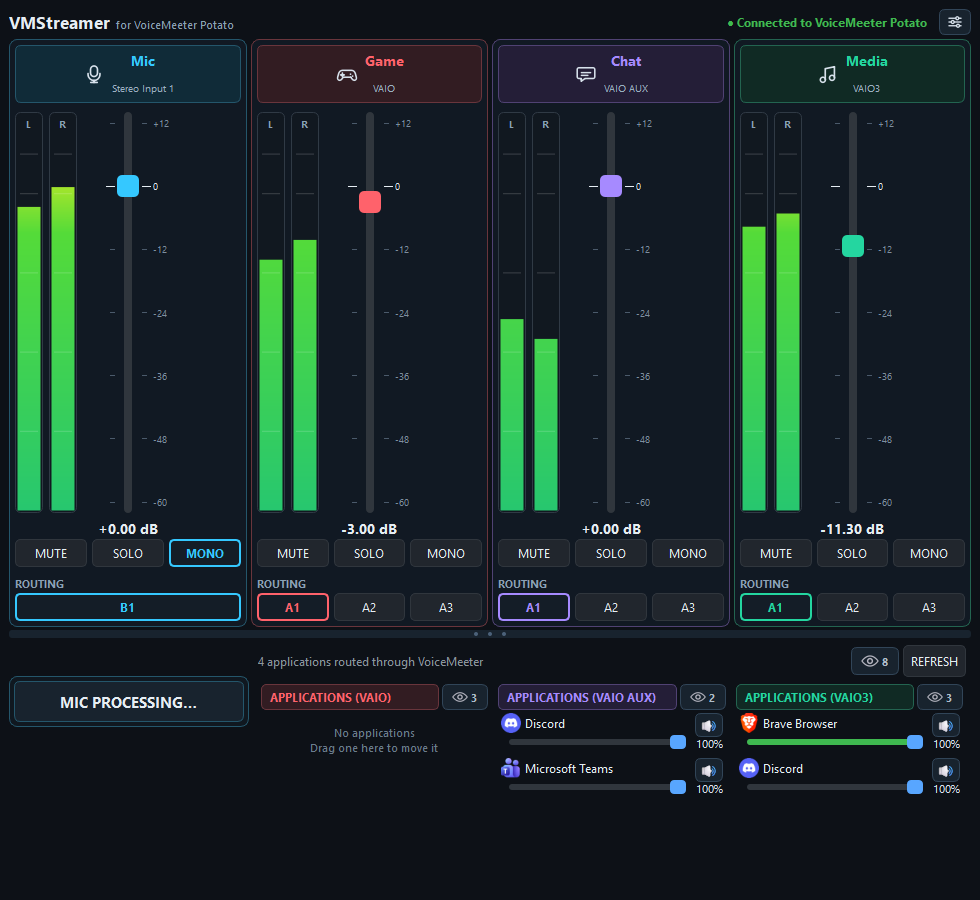
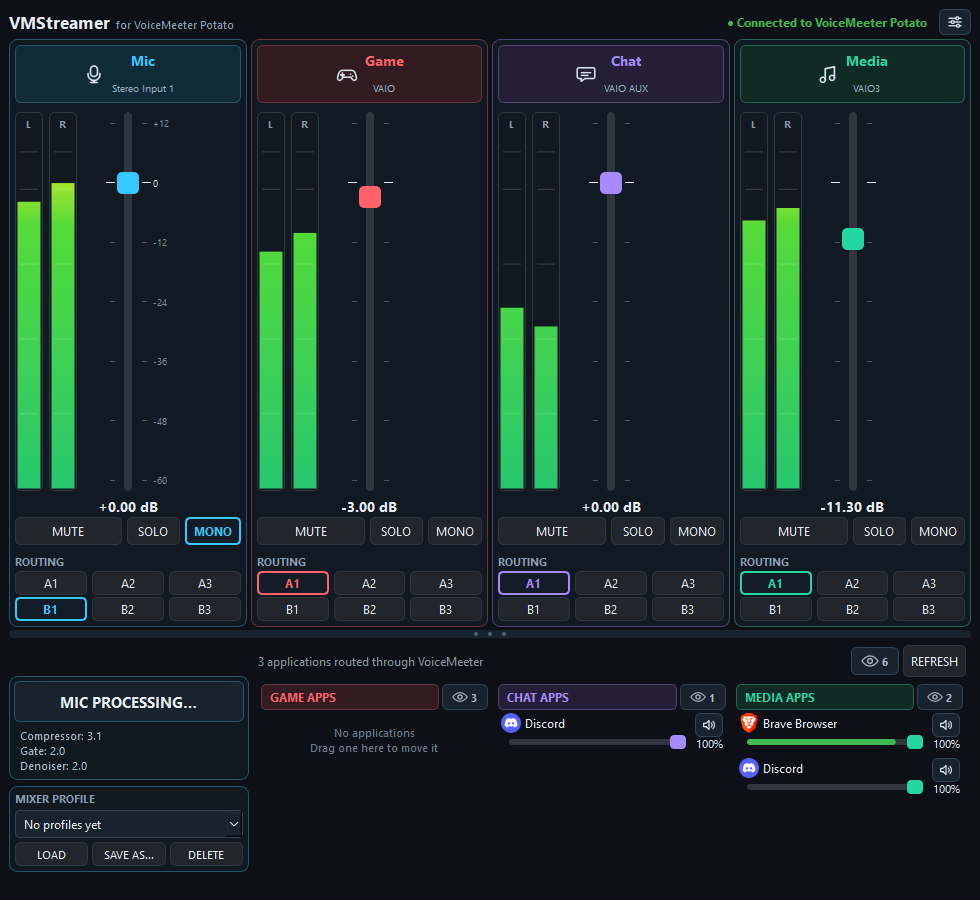
docs: cover profiles, routing and hotkeys; shorten the roadmap
Describe the new features in README and HANDOVER, replace the README's
long checklist with a short ordered roadmap, and refresh the screenshot.
The build notes now say to quit VMStreamer with --quit or its tray icon,
never by force, and why.

diff --git a/README.md b/README.md
@@ -22,13 +22,15 @@ Control your main VoiceMeeter channels directly from VMStreamer:
 - Mute
 - Solo
 - Mono
-- Output routing buttons (B1 for the microphone, A1–A3 for Game, Chat and Media)
+- Output routing buttons A1–A3 and B1–B3 on every channel, shown with the bus names you gave them in VoiceMeeter
+- Mixer profiles: save gain, mute, solo, mono and routing of all channels under a name, and load them again
 - Live level meters on every channel, with a dB scale on the faders
 - Reconnects by itself when VoiceMeeter is closed and started again
-- Global hotkey to mute the microphone (Ctrl+Shift+M by default)
+- Global hotkeys to mute the microphone (Ctrl+Shift+M by default) and each of Game, Chat and Media
 - System tray icon: keeps running when the window is closed, with mute and quit in its menu
 - Settings window for the microphone input, the hotkey and the tray behaviour
 - Starting VMStreamer a second time shows the running one instead of opening another
+- `VMStreamer.exe --quit` asks the running VMStreamer to quit, for use in scripts
 - Draggable divider between the mixer and the lower panels
 
 ### Application Audio
@@ -241,77 +243,19 @@ VMStreamer is currently under active development.
 
 The core mixer, microphone processing, application routing, live audio meters, and Windows application volume controls are functional.
 
-## Future Features
+## Roadmap
 
-VMStreamer is actively developed. The following features are planned or being considered for future releases:
+Done so far: reconnect, meters on every channel, global mute hotkeys, system tray, settings window, mic processing presets, mixer profiles, single running instance.
 
-### Configuration & Presets
+Next, roughly in this order:
 
-- [ ] Persistent application routing
-- [ ] Save and load mixer presets
-- [x] Save microphone processing presets
-- [ ] Save application volume and mute states
-- [ ] Multiple named profiles such as Gaming, Streaming, Recording, and Away
-- [ ] User-configurable application sorting and layout
-- [x] Dedicated settings window
+1. Hotkeys for volume and for switching profiles
+2. A compact window mode
+3. Configurable Game, Chat and Media mapping, and other VoiceMeeter editions
+4. A local API, so Stream Deck, OBS and scripts can control VMStreamer
+5. A Windows installer and a signed EXE
 
-### Application Management
-
-- [x] Display application icons
-- [ ] Remember application volume levels
-- [ ] Automatically route applications based on executable
-- [x] Move applications between Game, Chat, and Media
-- [ ] Improved application session detection
-- [ ] Application routing rules
-
-### VoiceMeeter Controls
-
-- [ ] Pan / balance controls
-- [ ] Additional strip controls
-- [ ] A/B bus controls
-- [ ] Bus volume and mute controls
-- [ ] Hardware input controls
-- [ ] Additional VoiceMeeter routing options
-
-### Streamer Features
-
-- [ ] Global hotkeys
-- [x] Global microphone mute
-- [ ] Game / Chat / Media volume hotkeys
-- [ ] Preset switching through hotkeys
-- [ ] Push-to-talk integration
-- [x] System tray support
-- [ ] Start with Windows
-- [x] Start minimized
-
-### Integrations
-
-- [ ] OBS Studio integration
-- [ ] Stream Deck integration
-- [ ] Local API for external applications and scripts
-- [ ] Home Assistant integration
-- [ ] Integration with other streaming tools
-
-### User Interface
-
-- [ ] Custom themes
-- [ ] Light mode
-- [ ] Custom accent colors
-- [ ] Compact mode
-- [ ] Improved high-DPI scaling
-- [ ] Customizable mixer layout
-- [ ] Additional visualization options
-
-### Distribution
-
-- [ ] Windows installer
-- [ ] Automatic updates
-- [x] GitHub Releases
-- [ ] Versioned release builds
-- [ ] Release notes and changelogs
-
-> This roadmap is subject to change as VMStreamer evolves and new ideas are explored.
-
+Not planned for now: light mode and custom themes, automatic updates.
 
 ## Support
 

diff --git a/HANDOVER.md b/HANDOVER.md
@@ -133,6 +133,20 @@ A Mic processing preset stores the state of all three blocks together (`save_pre
 
 Only one VMStreamer runs at a time. `main()` claims a named mutex (`acquire_single_instance`); a second start broadcasts a registered window message and exits, and the running instance shows its window (handled in `HotkeyFilter`, for the main window's copy of the message only). The packaged program and a run from source use different names on purpose.
 
+## Mixer Profiles, Routing and Hotkeys
+
+A mixer profile stores gain, mute, solo, mono and the routing buttons of all four strips (`save_profile`, `apply_profile`, `delete_profile`; QSettings key `mixer_profiles`, JSON). `StripWidget.apply_profile()` sends each value through the same handler as a click, so only what differs reaches VoiceMeeter. Profiles and mic processing presets are separate on purpose.
+
+Every strip has the routing rows A1–A3 and B1–B3 (`ROUTE_ROWS`). A button shows the bus name from VoiceMeeter when the bus has one (`route_name`).
+
+Each strip has a mute hotkey (`MUTE_HOTKEYS`); only the microphone's has a default. `register_hotkeys()` returns the combinations Windows refused.
+
+The fader's unit is 0.01 dB. One wheel notch moves 0.5 dB, Shift+wheel and the arrow keys 0.1 dB, Page Up/Down 1 dB.
+
+`update_processing_summary()` shows each block's Amount under the MIC PROCESSING button and marks a bypassed or switched-off block on its tab. It reads three values per change event; the full panels are still only synchronized while their window is open.
+
+`VMStreamer.exe --quit` (and `python main.py --quit`) asks the running instance to quit through a registered window message, handled like the tray's Quit.
+
 ## Tests
 
 `tests/` holds unit tests on the standard library's `unittest`; run them with `python -m unittest discover -s tests` before committing a change to `main.py`. `tests/fakes.py` provides a fake mixer (`FakeVM`), an in-memory `QSettings` and a `Sandbox` that swaps them into `main`, so a real `MainWindow` can be built on Qt's offscreen platform without VoiceMeeter.
@@ -300,27 +314,11 @@ Output:
 
 ## Build Notes
 
-If PyInstaller reports:
+`build_vmstreamer.ps1` asks a running VMStreamer to quit before it builds (`dist\VMStreamer.exe --quit`), because a running copy locks the EXE and PyInstaller then fails with `PermissionError: [WinError 5]`. If it is still running after ten seconds, quit it from its tray icon and build again.
 
-```text
-PermissionError: [WinError 5]
-```
+Do not stop VMStreamer by force (`Stop-Process -Force`, `taskkill /F`, Task Manager). A killed process cannot log out, and VoiceMeeter keeps listing it as a client (an "R" mark at the top of its window) until VoiceMeeter is restarted. `--quit` only works for versions that have it (v1.3.0 and later); older ones must be quit from the tray.
 
-against `dist\VMStreamer.exe`, the old executable is usually still running/locked.
-
-Check:
-
-```powershell
-Get-Process VMStreamer -ErrorAction SilentlyContinue
-```
-
-If necessary:
-
-```powershell
-Stop-Process -Name VMStreamer -Force
-```
-
-Then rebuild.
+Run the build script plainly. Redirecting its output makes PowerShell 5.1 treat PyInstaller's progress messages as an error.
 
 ## GitHub Release
 

diff --git a/PROJECT_STATE.md b/PROJECT_STATE.md
@@ -43,7 +43,8 @@ Main controls:
 - Mute
 - Solo
 - Mono
-- Routing buttons (Mic: B1; Game, Chat, Media: A1–A3)
+- Routing buttons A1–A3 and B1–B3 on every strip
+- Mixer profiles (`mixer_profiles`)
 
 Mic processing:
 
@@ -177,12 +178,7 @@ Do not regress:
 
 ## Build Locking
 
-If building fails with `WinError 5` on `dist\VMStreamer.exe`, close/kill the running VMStreamer process before rebuilding:
-
-```powershell
-Get-Process VMStreamer -ErrorAction SilentlyContinue
-Stop-Process -Name VMStreamer -Force
-```
+The build script asks a running VMStreamer to quit (`VMStreamer.exe --quit`) before building. Never stop it by force: a killed process stays listed as a client in VoiceMeeter until VoiceMeeter is restarted.
 
 ## Future UI
 
@@ -194,9 +190,11 @@ Potential areas:
 
 - application routing rules
 - presets/profiles
-- more hotkeys (per-channel mute, volume)
+- hotkeys for volume and profile switching
+- compact window mode
 - configurable Game/Chat/Media mapping
-- whole-mixer profiles
+- local API
+- installer and signed EXE
 - volume persistence
 - pan/balance
 - additional VoiceMeeter controls
